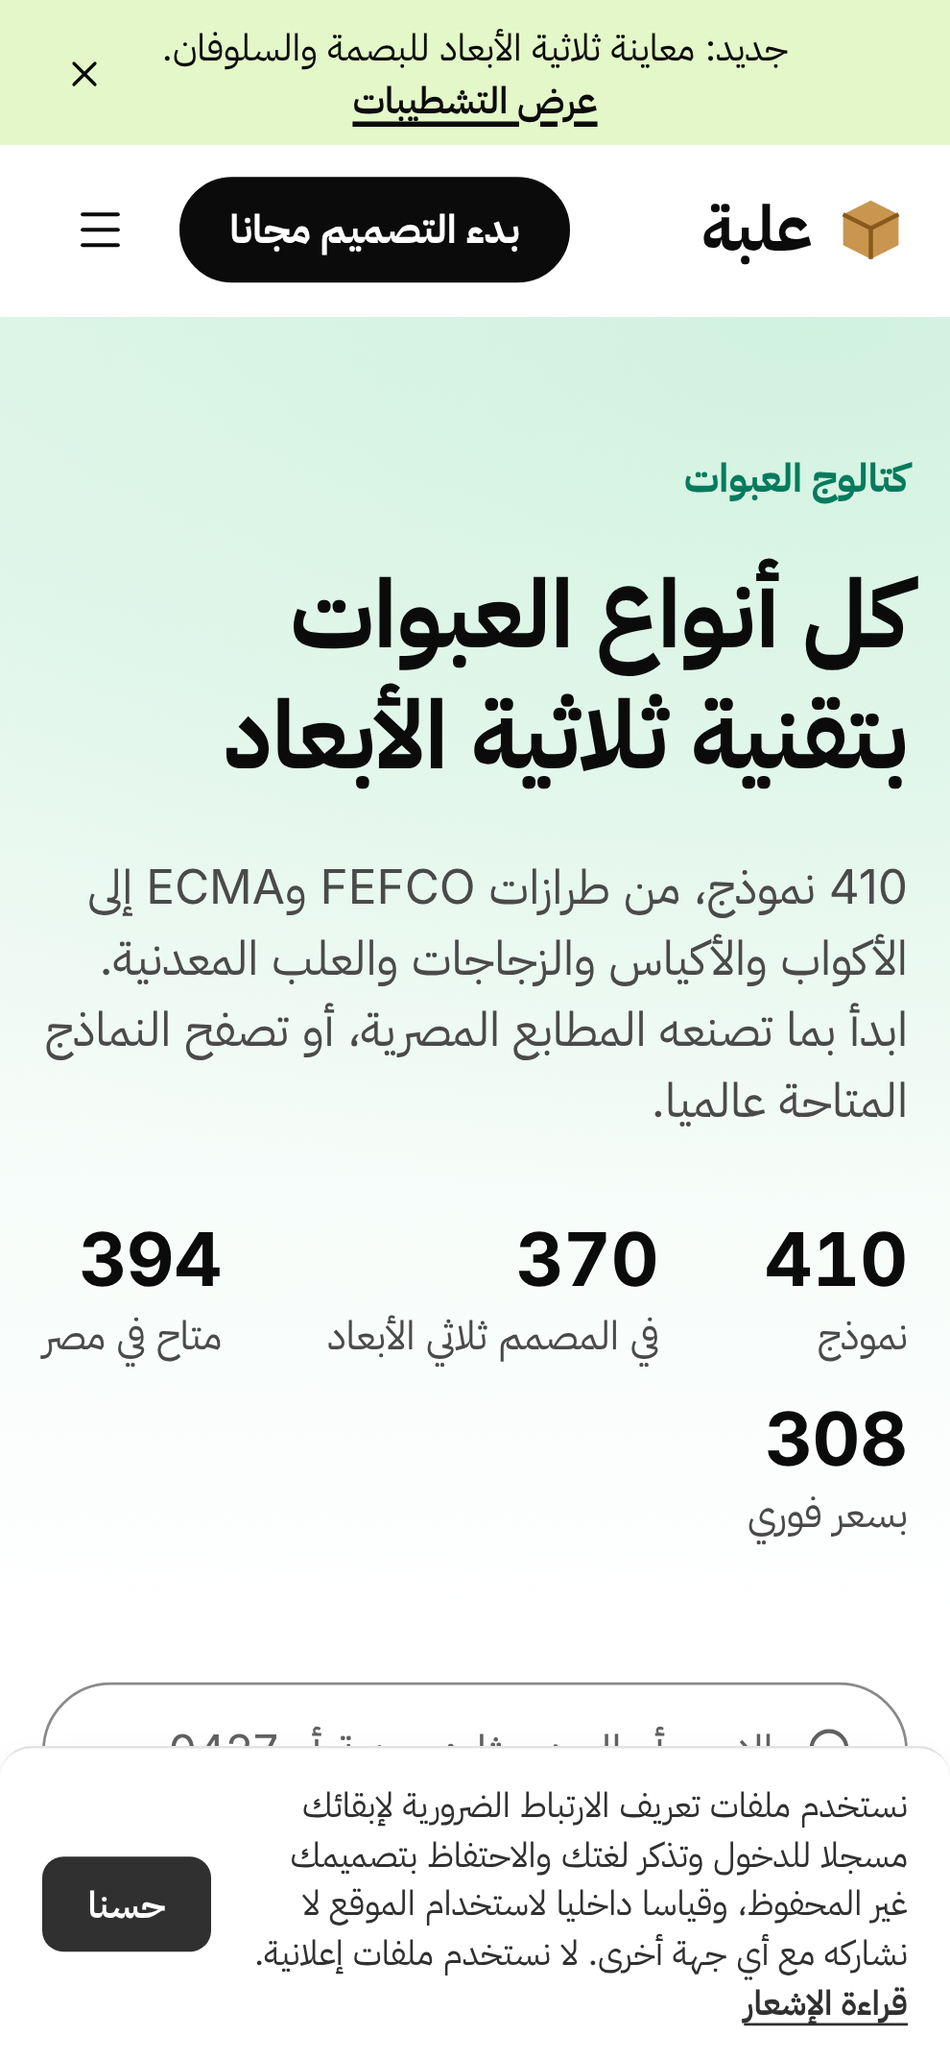
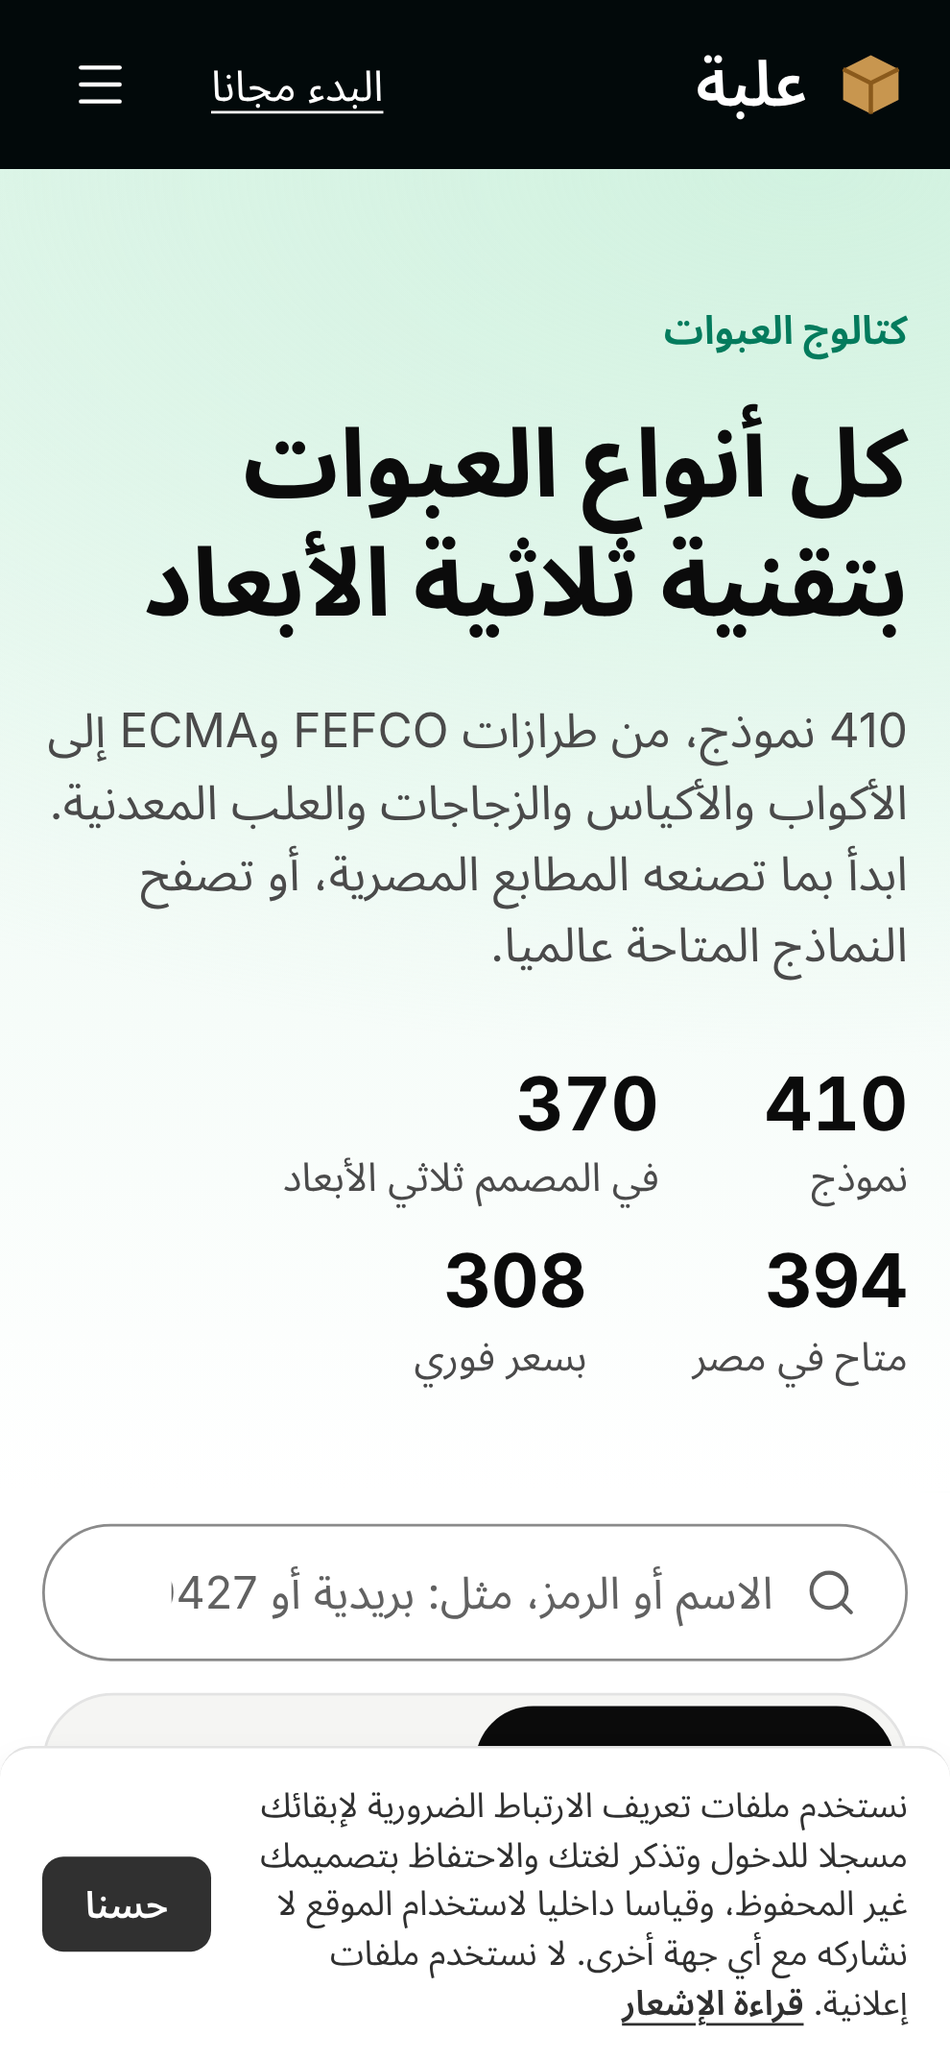
a11y R6 pass 3: cookie notice room at page end, admin 404 and checkout step titles
Fresh pass on merged main (new public pages at 320/390/1024/1440, ar/en,
motion and reduced motion). Kit: the cookie notice adds its own bottom room
when a focused control at the end of the page cannot scroll clear of it
(R6-AX-13). Fixed R6-AX-11 (admin 404 tab titles) and R6-AX-12 (checkout
step titles). Marketing findings R6-AX-14/15/16 are written up for the
foundation with exact fixes.

Claude-Session: https://claude.ai/code/session_01ErLBsbpkFZxmN4onoU7ez6

diff --git a/src/components/admin/AdminNotFound.tsx b/src/components/admin/AdminNotFound.tsx
@@ -1,5 +1,6 @@
 "use client";
 
+import { useEffect } from "react";
 import { Button } from "@/components/ui/Button";
 import { Card } from "@/components/ui/Card";
 import { EmptyBoxIllustration, EmptyState } from "@/components/ui/EmptyState";
@@ -7,12 +8,12 @@ import { Page } from "@/components/ui/Page";
 import { useI18n } from "@/i18n/client";
 import type { DictKey } from "@/i18n";
 
-const BACK: Record<string, { path: string; label: DictKey }> = {
-  orders: { path: "orders", label: "admin.order.back" },
-  vendors: { path: "vendors", label: "admin.vendors.detail.back" },
-  applications: { path: "vendors?tab=applications", label: "admin.application.back" },
-  users: { path: "users", label: "admin.users.detail.back" },
-  disputes: { path: "disputes", label: "admin.disputes.detail.back" },
+const BACK: Record<string, { path: string; label: DictKey; title: DictKey }> = {
+  orders: { path: "orders", label: "admin.order.back", title: "admin.orders.title" },
+  vendors: { path: "vendors", label: "admin.vendors.detail.back", title: "admin.vendors.title" },
+  applications: { path: "vendors?tab=applications", label: "admin.application.back", title: "admin.vendors.tabs.applications" },
+  users: { path: "users", label: "admin.users.detail.back", title: "admin.users.title" },
+  disputes: { path: "disputes", label: "admin.disputes.detail.back", title: "admin.disputes.title" },
 };
 
 /**
@@ -23,6 +24,12 @@ export function AdminNotFound({ section }: { section: keyof typeof BACK }) {
   const { t, locale } = useI18n();
   const back = BACK[section]!;
   const url = `/${locale}/admin/${back.path}`;
+  // a11y R6-AX-11 (WCAG 2.4.2): detail layouts that check the record call notFound() before the
+  // page's generateMetadata runs, so the tab kept the site's default title. Say "Not found" here.
+  const title = `${t("admin.common.notFoundTitle")} · ${t(back.title)} · ${t("admin.title")}`;
+  useEffect(() => {
+    if (!document.title.startsWith(t("admin.common.notFoundTitle"))) document.title = `${title} · ${locale === "ar" ? "علبة" : "Elba"}`;
+  }, [title, t, locale]);
   return (
     <Page narrowWidth title={t("admin.common.notFoundTitle")} backAction={{ content: t(back.label), url }}>
       <Card>

diff --git a/src/components/ui/CookieNotice.tsx b/src/components/ui/CookieNotice.tsx
@@ -50,6 +50,7 @@ export function CookieNotice() {
     // Keyboard focus only: scrolling between pointerdown and pointerup would move the target
     // out from under the pointer and swallow the click (a pointer user can see what they hit).
     let pointerDown = false;
+    let padded = false;
     const onPointerDown = () => (pointerDown = true);
     const onPointerUp = () => (pointerDown = false);
     const onFocusIn = (e: FocusEvent) => {
@@ -58,8 +59,17 @@ export function CookieNotice() {
       if (!target.matches(":focus-visible")) return;
       const n = el.getBoundingClientRect();
       const r = target.getBoundingClientRect();
-      const covered = r.bottom > n.top && r.top < n.bottom && r.right > n.left && r.left < n.right;
-      if (covered) window.scrollBy({ top: r.bottom - n.top + 16, behavior: "instant" as ScrollBehavior });
+      const under = (b: DOMRect) => b.bottom > n.top && b.top < n.bottom && b.right > n.left && b.left < n.right;
+      if (!under(r)) return;
+      window.scrollBy({ top: r.bottom - n.top + 16, behavior: "instant" as ScrollBehavior });
+      // R6-AX-13: at the end of the page there is nothing left to scroll (a shell footer without
+      // the `--e-cookie-h` padding, e.g. the last footer links on a phone). Add the room here.
+      const r2 = target.getBoundingClientRect();
+      if (under(r2)) {
+        padded = true;
+        root.style.paddingBlockEnd = `${el.offsetHeight + 32}px`;
+        window.scrollBy({ top: r2.bottom - n.top + 16, behavior: "instant" as ScrollBehavior });
+      }
     };
     document.addEventListener("pointerdown", onPointerDown, true);
     document.addEventListener("pointerup", onPointerUp, true);
@@ -73,6 +83,7 @@ export function CookieNotice() {
       ro?.disconnect();
       root.style.removeProperty("--e-cookie-h");
       root.style.scrollPaddingBlockEnd = "";
+      if (padded) root.style.paddingBlockEnd = "";
     };
   }, [show, leaving]);
 

diff --git a/src/app/[locale]/admin/orders/[number]/page.tsx b/src/app/[locale]/admin/orders/[number]/page.tsx
@@ -16,6 +16,7 @@ import { NoteComposer, OverrideCard, QcActions, RefundCard, RoutingCard, ShipCar
 import { OrderStatusBadge } from "@/components/admin/OrdersIndex";
 import { adminStyles } from "@/components/admin/charts";
 import { loadOrderDetail } from "@/components/admin/server/queries";
+import { db } from "@/lib/db";
 import { goodsNet, marginOf, type MetricOrder } from "@/components/admin/lib/metrics";
 import { canOverrideCost, canOverridePrice, canReassign, canRefund, canReviewQc, reprintSource } from "@/components/admin/lib/orders";
 import { isOpenDispute } from "@/components/admin/lib/ops";
@@ -34,7 +35,10 @@ type Params = Promise<{ locale: string; number: string }>;
 export async function generateMetadata({ params }: { params: Params }): Promise<Metadata> {
   const { locale, number } = await params;
   const t = getT(toLocale(locale));
-  return { title: `${decodeURIComponent(number)} · ${t("admin.orders.title")} · ${t("admin.title")}` };
+  const n = decodeURIComponent(number);
+  // a11y R6-AX-11 (WCAG 2.4.2): an unknown order number says "Not found" in the tab title.
+  const found = /^[\w-]{1,64}$/.test(n) ? await db.order.findFirst({ where: { OR: [{ number: n }, { id: n }] }, select: { number: true } }) : null;
+  return { title: `${found ? found.number : `${t("admin.common.notFoundTitle")} · ${n}`} · ${t("admin.orders.title")} · ${t("admin.title")}` };
 }
 
 function Row({ label, value, strong }: { label: ReactNode; value: ReactNode; strong?: boolean }) {

diff --git a/src/app/[locale]/(checkout)/checkout/_components/CheckoutClient.tsx b/src/app/[locale]/(checkout)/checkout/_components/CheckoutClient.tsx
@@ -452,6 +452,16 @@ export function CheckoutClient(props: {
     { id: "proof", label: t("checkout.steps.proof") },
     { id: "payment", label: t("checkout.steps.payment") },
   ];
+  // a11y R6-AX-12 (WCAG 2.4.2): each step is its own history entry, so its title names the step
+  // ("Delivery address · Checkout · Elba"), in the history list and for screen readers.
+  const baseTitle = useRef<string | null>(null);
+  useEffect(() => {
+    if (baseTitle.current === null) baseTitle.current = document.title;
+    const label = steps[step]?.label;
+    document.title = step > 0 && label ? `${label} · ${baseTitle.current}` : baseTitle.current;
+    // steps only changes with the locale; the step is what matters.
+    // eslint-disable-next-line react-hooks/exhaustive-deps
+  }, [step]);
 
   // ── step bodies ───────────────────────────────────────────────────
   const offerStep = (

diff --git a/src/app/[locale]/admin/vendors/[slug]/page.tsx b/src/app/[locale]/admin/vendors/[slug]/page.tsx
@@ -30,7 +30,8 @@ export async function generateMetadata({ params }: { params: Params }): Promise<
   const t = getT(locale);
   // Entity first (WCAG 2.4.2, CR-49): "Nile Pack · Vendors · Admin".
   const v = /^[\w-]{1,80}$/.test(slug) ? await db.vendor.findUnique({ where: { slug }, select: { nameAr: true, nameEn: true } }) : null;
-  return { title: `${v ? `${pick(locale, v.nameAr, v.nameEn)} · ` : ""}${t("admin.vendors.title")} · ${t("admin.title")}` };
+  // a11y R6-AX-11 (WCAG 2.4.2): a missing record says so in the tab title too.
+  return { title: `${v ? `${pick(locale, v.nameAr, v.nameEn)} · ` : `${t("admin.common.notFoundTitle")} · `}${t("admin.vendors.title")} · ${t("admin.title")}` };
 }
 
 export default async function AdminVendorPage({ params }: { params: Params }) {

diff --git a/src/app/[locale]/admin/vendors/applications/[id]/page.tsx b/src/app/[locale]/admin/vendors/applications/[id]/page.tsx
@@ -25,7 +25,8 @@ export async function generateMetadata({ params }: { params: Params }): Promise<
   const { locale, id } = await params;
   const t = getT(toLocale(locale));
   const a = /^[\w-]{1,40}$/.test(id) ? await db.vendorApplication.findUnique({ where: { id }, select: { legalName: true } }) : null;
-  return { title: `${a ? `${a.legalName} · ` : ""}${t("admin.vendors.tabs.applications")} · ${t("admin.title")}` };
+  // a11y R6-AX-11 (WCAG 2.4.2): a missing record says so in the tab title too.
+  return { title: `${a ? `${a.legalName} · ` : `${t("admin.common.notFoundTitle")} · `}${t("admin.vendors.tabs.applications")} · ${t("admin.title")}` };
 }
 
 function Field({ label, children }: { label: string; children: ReactNode }) {

diff --git a/src/app/[locale]/admin/disputes/[id]/page.tsx b/src/app/[locale]/admin/disputes/[id]/page.tsx
@@ -24,7 +24,8 @@ export async function generateMetadata({ params }: { params: Params }): Promise<
   const { locale, id } = await params;
   const t = getT(toLocale(locale));
   const d = /^[\w-]{1,40}$/.test(id) ? await db.dispute.findUnique({ where: { id }, select: { order: { select: { number: true } } } }) : null;
-  return { title: `${d ? `${d.order.number} · ` : ""}${t("admin.disputes.title")} · ${t("admin.title")}` };
+  // a11y R6-AX-11 (WCAG 2.4.2): a missing record says so in the tab title too.
+  return { title: `${d ? `${d.order.number} · ` : `${t("admin.common.notFoundTitle")} · `}${t("admin.disputes.title")} · ${t("admin.title")}` };
 }
 
 export default async function AdminDisputePage({ params }: { params: Params }) {

diff --git a/src/app/[locale]/admin/users/[id]/page.tsx b/src/app/[locale]/admin/users/[id]/page.tsx
@@ -26,7 +26,8 @@ export async function generateMetadata({ params }: { params: Params }): Promise<
   const { locale, id } = await params;
   const t = getT(toLocale(locale));
   const u = /^[\w-]{1,40}$/.test(id) ? await db.user.findUnique({ where: { id }, select: { name: true } }) : null;
-  return { title: `${u?.name ? `${u.name} · ` : ""}${t("admin.users.title")} · ${t("admin.title")}` };
+  // a11y R6-AX-11 (WCAG 2.4.2): a missing record says so in the tab title too.
+  return { title: `${u?.name ? `${u.name} · ` : !u ? `${t("admin.common.notFoundTitle")} · ` : ""}${t("admin.users.title")} · ${t("admin.title")}` };
 }
 
 export default async function AdminUserPage({ params }: { params: Params }) {

diff --git a/src/components/ui/__tests__/a11y.test.tsx b/src/components/ui/__tests__/a11y.test.tsx
@@ -224,6 +224,8 @@ describe("UI kit accessibility contracts", () => {
     window.scrollBy = scrollBy as unknown as typeof window.scrollBy;
     field.focus();
     expect(scrollBy).toHaveBeenCalledWith(expect.objectContaining({ top: 688 - 655 + 16 }));
+    // R6-AX-13: the page could not scroll (end of the page): the notice adds the room itself.
+    expect(document.documentElement.style.paddingBlockEnd).toMatch(/px$/);
     // A pointer press never scrolls mid-click (it would move the target away from the pointer).
     field.blur();
     scrollBy.mockClear();

diff --git a/docs/audit/a11y.md b/docs/audit/a11y.md
@@ -424,3 +424,70 @@ Base: `claude/exciting-albattani-8kzgsu` at `f8db398` (after the r5 merges). Lig
 | low | 4 (R6-AX-05, -08, -11, -12) | 2 | 2 (R6-AX-11 admin, R6-AX-12 checkout) |
 
 Carried and closed: R4-10 (low). This round found medium-or-worse issues, so by the stopping rule another round is due; every one of them except the marketing header (rebuild) is fixed in this branch.
+
+# Round 6, pass 3 — merged main (`c828b8a`: R6 foundation, home, start, why, pricing, designer pages)
+
+Asked by the integrator after the first two passes: a fresh pass on the merged branch, the new public pages at 320 / 390 / 1024 / 1440 in ar and en with and without reduced motion, keyboard-only menus, the pause controls (2.2.2) and contrast on the dark and violet sheets; and fix R6-AX-11 and R6-AX-12 here (the admin and checkout sessions are finished).
+
+## Method (pass 3)
+
+| check | how | scope |
+|---|---|---|
+| axe (2.0 to 2.2 A/AA), overflow, h1, lang/dir after a full scroll (reveals run) | `a11y-r6-public.cjs` | `/`, `/start`, `/why-elba`, `/pricing`, `/designer`, `/dev/kit` (server with `ELBA_DEV_PAGES=1`) × ar/en × 320/390/1024/1440 × motion / `reduce` = **96 loads** |
+| Contrast on gradients and photos (axe leaves them "incomplete") | (1) `a11y-r6-sheets.cjs`: every text node on a gradient sheet against the lightest and darkest colour stop, alpha blended; (2) pixel sampling with the text hidden (`a11y-r6-public.cjs`), each low hit confirmed by `a11y-r6-crop.cjs` | dark, green, navy and violet sheets on all six pages |
+| 2.2.2 Pause, stop, hide | running infinite or > 5 s animations and playing videos counted, every pause control pressed by keyboard, counted again | all six pages, motion on |
+| 2.3.3 / reduced motion | same counts with `reducedMotion: 'reduce'` | all six pages |
+| Header menus by keyboard | every `aria-expanded` trigger: Enter, Tab into the panel, Escape, focus return; phone menu sheet | all pages, 320 to 1440 |
+| Tab walk: focus visible, not obscured, focus lost | `a11y-r6-tabdetail.cjs` (per stop: what covers it; `WAIT` lets transitions settle), `a11y-r6-marquee.cjs` (share of each focused marquee item inside the strip) | all pages |
+| 2.5.8 target size with the spacing exception | `a11y-r6-targets.cjs` (24 px circle on each small target against every other target) | all pages, 390 and 1440 |
+| R6-AX-11 / R6-AX-12 | `a11y-r6-titles.cjs` | admin 404s ar/en; checkout Continue / Back / Forward ar/en |
+
+## Pass 3 findings
+
+| id | severity | page / file | finding | standard | fix | status |
+|---|---|---|---|---|---|---|
+| R6-AX-13 | medium | every page whose shell footer lacks the `--e-cookie-h` padding (all rebuilt public pages: `/start`, `/pricing`, `/why-elba`, `/designer`, home) · kit `CookieNotice.tsx` | With the cookie notice showing, the last footer links ("Terms of service", "Privacy policy", "Returns for custom goods", "Cookie notice") took keyboard focus **under** the notice at 320, 390, 1024 and 1440: at the end of the page there is nothing left to scroll, and the rebuilt marketing footer does not add the notice height to its padding (only the checkout shell does). | 2.4.11 Focus not obscured (minimum) | Kit: when the focus-reveal scroll cannot move a covered control clear, the notice adds its own height as bottom padding on `<html>` and scrolls again (removed when the notice goes). Shells that already pad never hit this path. Unit contract extended. | fixed |
+| R6-AX-14 | medium | `/why-elba` violet sheet (ar + en, every width) · `why.module.css` (`--w-muted`, lead) on kit `--mk-band-violet` | Muted card text `rgba(255,255,255,.7)` 16 px is 3.32:1 and the lead `rgba(255,255,255,.82)` 18 px is 3.98:1 against the light end of the gradient (`#6a4cff`). | 1.4.3 Contrast (minimum) | Foundation / rebuild: on the violet band use solid `#fff` for body and lead text (5.15:1 on `#6a4cff`, 7.2:1 on `#3b1fd9`); keep the muted alpha only on the dark and navy sheets. | open (foundation) |
+| R6-AX-15 | medium | home: prompt caret (`h-caret`, 1 s blink), city dots / violet glow (`h-glow` 8 s), sparkle (`h-sparkle` 8 s); `/designer`: violet band `::before` (`dp-spin`, 30 s rotation) · `home.module.css`, `designer-page.module.css` | After pressing every pause control on the page (10 on home, 3 on `/designer`) these keep running for ever. The blinking caret is the clearest case (blinking content longer than 5 s with no way to stop it). Reduced motion does stop them. | 2.2.2 Pause, stop, hide (Level A) | Foundation / rebuild: put each under the pause state of its section's kit `MotionScope` (`[data-paused="true"] … { animation-play-state: paused }`), or make them finite: caret 3 blinks then solid, glow and sparkle 1 cycle, spin removed or 1 turn. | open (foundation) |
+| R6-AX-16 | low | header mega-menus (desktop, ar + en) · `marketing/HeaderNav.tsx` | Keyboard focus already opens "Products" / "Why Elba"; the first Enter (what a keyboard user presses to open it) then **closes** it (`aria-expanded` → false). Tab still walks the panel and Escape works, so this is a predictability issue, not a blocker. | 3.2 Predictable (advisory), APG disclosure | Foundation: when the panel was opened by focus, Enter / Space keep it open and move to the first link (as ArrowDown does); toggle only on a later press. | open (foundation) |
+| R6-AX-11 | low | admin detail 404s | (from pass 1) | 2.4.2 | `generateMetadata` says "Not found" for orders / disputes / vendors; users and applications check the record in their `[id]/layout.tsx` (R5-PL-03) before the page metadata runs, so the shared `AdminNotFound` card also sets the tab title. Verified ar + en: "Not found · Users · Admin · Elba", "غير موجود · المستخدمون · الإدارة · علبة", and the four others. | fixed |
+| R6-AX-12 | low | checkout steps | (from pass 1) | 2.4.2 | Each step entry is titled: "Delivery · Checkout · Elba" / "التوصيل · إتمام الطلب · علبة"; Back returns to "Checkout · Elba", Forward to the step again (verified ar + en). | fixed |
+
+### Checked and passing (pass 3)
+
+- **axe**: 0 violations on all 96 public loads; 0 px horizontal overflow (anonymous; R6-AX-10 is the signed-in 1024 px header, with the foundation); one `h1`, correct `lang` / `dir` on each.
+- **Reduced motion (2.3.3)**: 0 running long or infinite animations and no playing video on any page at any width; pause controls are hidden there because nothing moves.
+- **Pause controls (2.2.2)**: home has 10, `/designer` 3, `/why-elba` 1, `/dev/kit` 5, all 44 × 44 px, keyboard operable; together they stop every marquee, orbit, step carousel, hero rotation and video (home 51 → 4 running animations, video 1 → 0). The 4 left are R6-AX-15.
+- **Contrast**: the analytic stop check is clean on home, `/start`, `/pricing` and `/designer` in both locales; the scroll-filled statement on home is gradient-clipped text (grey about 6:1 on near-black, large) and the static fallback is the same. Pixel-sampler hits on outline pills, the "Sample" badges (white on 88 % near-black) and the price chip were checked one by one and pass; they come from borders and `background-clip: text` that the sampler cannot hide.
+- **Menus**: phone menu opens as a dialog, focus moves inside, Escape closes and returns focus to "Menu"; desktop panels open on focus / Enter / ArrowDown, Escape closes and returns focus to the trigger, leaving the item closes the panel (the "obscured" stops seen when tabbing fast are the 300 ms fade-out; clean with the walk waiting 250 ms).
+- **Marquees**: they pause on focus; after the first item (55 to 61 % visible) every focused card is fully inside the strip, at 390 and 1440, ar and en.
+- **Focus indicators**: every stop has a ring; the designer prompt input shows its indicator on the form (`:focus-within`: 6 px white 35 % ring plus glow on violet).
+- **2.5.8**: all targets under 24 px (footer text links 20 to 21 px tall) meet the spacing exception on all six pages at 390 and 1440.
+- **The tall comparison-table scroller on `/pricing`**: focusable, named "Comparison table, scrolls sideways"; when it takes focus its top is under the sticky header but most of it is visible (2.4.11 minimum met).
+
+## Files touched (pass 3)
+
+| file | change | owner to keep it |
+|---|---|---|
+| `src/components/ui/CookieNotice.tsx`, `__tests__/a11y.test.tsx` | R6-AX-13 | kit |
+| `src/app/[locale]/admin/{orders/[number],users/[id],disputes/[id],vendors/[slug],vendors/applications/[id]}/page.tsx` | "Not found" in `generateMetadata` (R6-AX-11) | admin (asked to fix here) |
+| `src/components/admin/AdminNotFound.tsx` | tab title for 404s raised by a layout (R6-AX-11) | admin (asked to fix here) |
+| `src/app/[locale]/(checkout)/checkout/_components/CheckoutClient.tsx` | step in `document.title` (R6-AX-12) | checkout (asked to fix here) |
+| `docs/audit/tools/a11y-r6-{public,sheets,crop,tabdetail,marquee,targets,titles}.cjs` | probes | a11y |
+
+## Verification (pass 3)
+
+- `npm run typecheck`, `npm run lint`: clean. `npm run build`: passes. `npm test`: 115 files, **8,795 tests pass**.
+- Playwright (`next start`, `--workers=2 --trace off`, desktop + mobile): `a11y`, `a11y-routes`, `smoke`, `storefront`, `marketing-kit`, `start`, `why-pricing`, `designer-page`, `admin`, `checkout`, `checkout-states`, `checkout-dispute-photos`, `catalogue`, `vendor`, `designer`: **253 passed, 0 failed**, 31 skipped (the specs' own project skips).
+- Browser re-checks: R6-AX-13 Tab walk with the notice showing at 320, 390 and 1440 on `/start` (ar, en) and `/pricing`: no footer link covered; R6-AX-11 and R6-AX-12 titles as above.
+
+## Counts (pass 3, new findings before fixing)
+
+| severity | new | fixed | open (owner) |
+|---|---|---|---|
+| critical | 0 | 0 | 0 |
+| high | 0 | 0 | 0 |
+| medium | 3 (R6-AX-13, -14, -15) | 1 (R6-AX-13) | 2 (R6-AX-14, -15: foundation) |
+| low | 1 (R6-AX-16) | 0 | 1 (R6-AX-16: foundation) |
+
+Also fixed in this pass: R6-AX-11 and R6-AX-12 (low, from pass 1). Still with the foundation: R6-AX-10 (medium). The pass found medium issues (two in marketing files this branch does not edit), so by the stopping rule another round is due once the foundation lands R6-AX-10, -14, -15 and -16.
